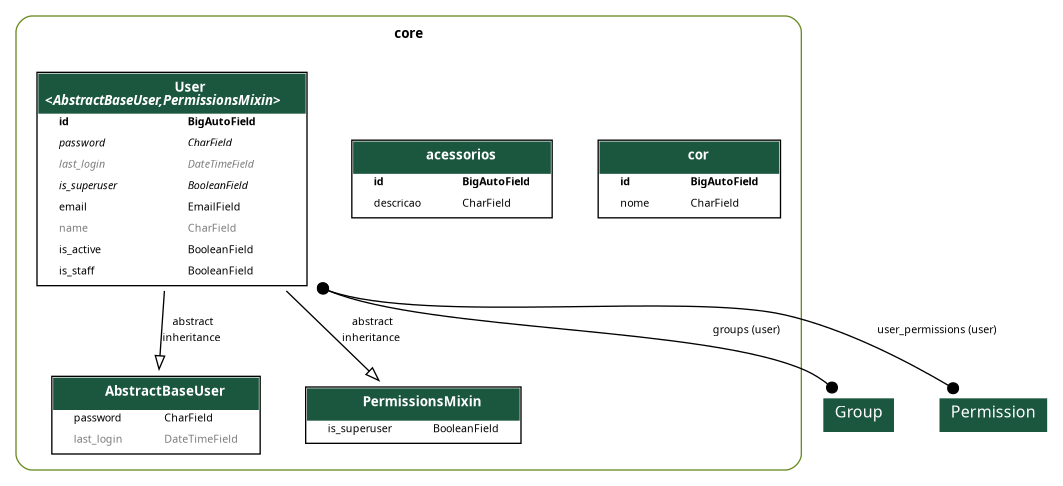
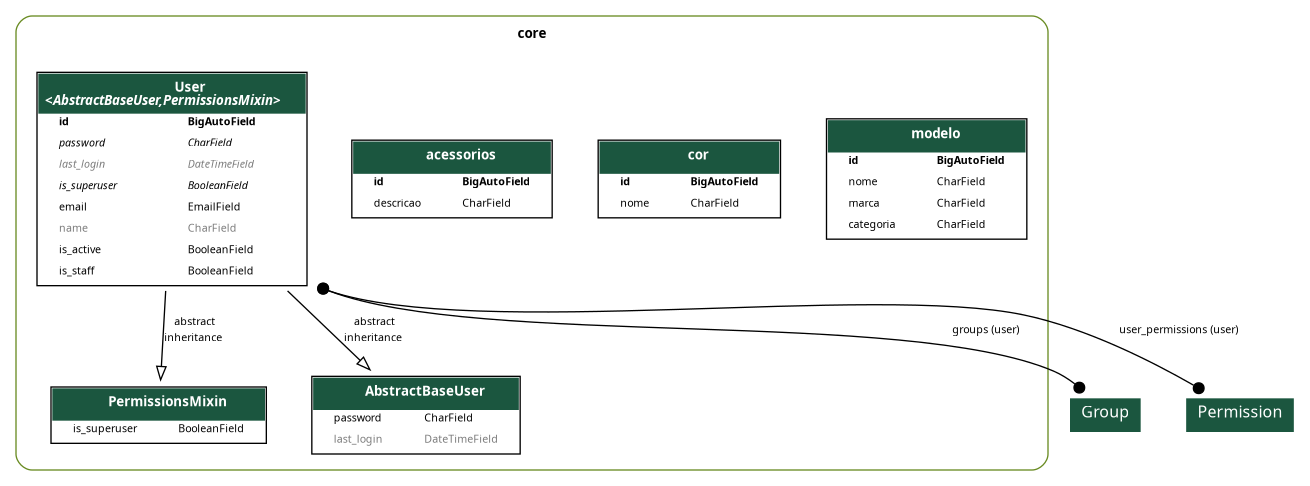
feat: Criação da model de Modelo

diff --git a/core/migrations/0009_modelo.py b/core/migrations/0009_modelo.py
@@ -1,0 +1,26 @@
+# Generated by Django 5.2.12 on 2026-03-24 17:31
+
+from django.db import migrations, models
+
+
+class Migration(migrations.Migration):
+
+    dependencies = [
+        ('core', '0008_alter_cor_options'),
+    ]
+
+    operations = [
+        migrations.CreateModel(
+            name='modelo',
+            fields=[
+                ('id', models.BigAutoField(auto_created=True, primary_key=True, serialize=False, verbose_name='ID')),
+                ('nome', models.CharField(max_length=80)),
+                ('marca', models.CharField(max_length=80)),
+                ('categoria', models.CharField(max_length=80)),
+            ],
+            options={
+                'verbose_name': 'Modelo',
+                'verbose_name_plural': 'Modelos',
+            },
+        ),
+    ]

diff --git a/app/urls.py b/app/urls.py
@@ -12,12 +12,13 @@ from rest_framework_simplejwt.views import (
     TokenVerifyView,
 )
 
-from core.views import AcessoriosViewSet, CorViewSet, UserRegistrationView, UserViewSet
+from core.views import AcessoriosViewSet, CorViewSet, ModeloViewSet, UserRegistrationView, UserViewSet
 
 router = DefaultRouter()
 
 router.register(r'usuarios', UserViewSet, basename='usuarios')
 router.register(r'acessorios', AcessoriosViewSet, basename='acessorios')
+router.register(r'modelos', ModeloViewSet, basename='modelos')
 router.register(r'cores', CorViewSet, basename='cores')
 
 urlpatterns = [

diff --git a/core/models/modelo.py b/core/models/modelo.py
@@ -1,0 +1,14 @@
+from django.db import models
+
+
+class modelo(models.Model):
+    nome = models.CharField(max_length=80)
+    marca = models.CharField(max_length=80)
+    categoria = models.CharField(max_length=80)
+
+    def __str__(self):
+        return f'{self.id} - {self.marca} - {self.nome}'.upper()
+
+    class Meta:
+        verbose_name = 'Modelo'
+        verbose_name_plural = 'Modelos'

diff --git a/core/views/modelo.py b/core/views/modelo.py
@@ -1,0 +1,9 @@
+from rest_framework.viewsets import ModelViewSet
+
+from core.models import modelo
+from core.serializers import ModeloSerializer
+
+
+class ModeloViewSet(ModelViewSet):
+    queryset = modelo.objects.all()
+    serializer_class = ModeloSerializer

diff --git a/core/serializers/modelo.py b/core/serializers/modelo.py
@@ -1,0 +1,9 @@
+from rest_framework.serializers import ModelSerializer
+
+from core.models import modelo
+
+
+class ModeloSerializer(ModelSerializer):
+    class Meta:
+        model = modelo
+        fields = '__all__'

diff --git a/core/admin.py b/core/admin.py
@@ -54,3 +54,4 @@ class UserAdmin(BaseUserAdmin):
 admin.site.register(models.User, UserAdmin)
 admin.site.register(models.acessorios)
 admin.site.register(models.cor)
+admin.site.register(models.modelo)

diff --git a/core/serializers/__init__.py b/core/serializers/__init__.py
@@ -1,3 +1,4 @@
 from .user import UserRegistrationSerializer, UserSerializer
 from .acessorios import AcessoriosSerializer
 from .cor import CorSerializer
+from .modelo import ModeloSerializer

diff --git a/core/views/__init__.py b/core/views/__init__.py
@@ -1,3 +1,4 @@
 from .user import UserRegistrationView, UserViewSet
 from .acessorios import AcessoriosViewSet
 from .cor import CorViewSet
+from .modelo import ModeloViewSet

diff --git a/core/models/__init__.py b/core/models/__init__.py
@@ -1,3 +1,4 @@
 from .user import User
 from .acessorios import acessorios
 from .cor import cor
+from .modelo import modelo
